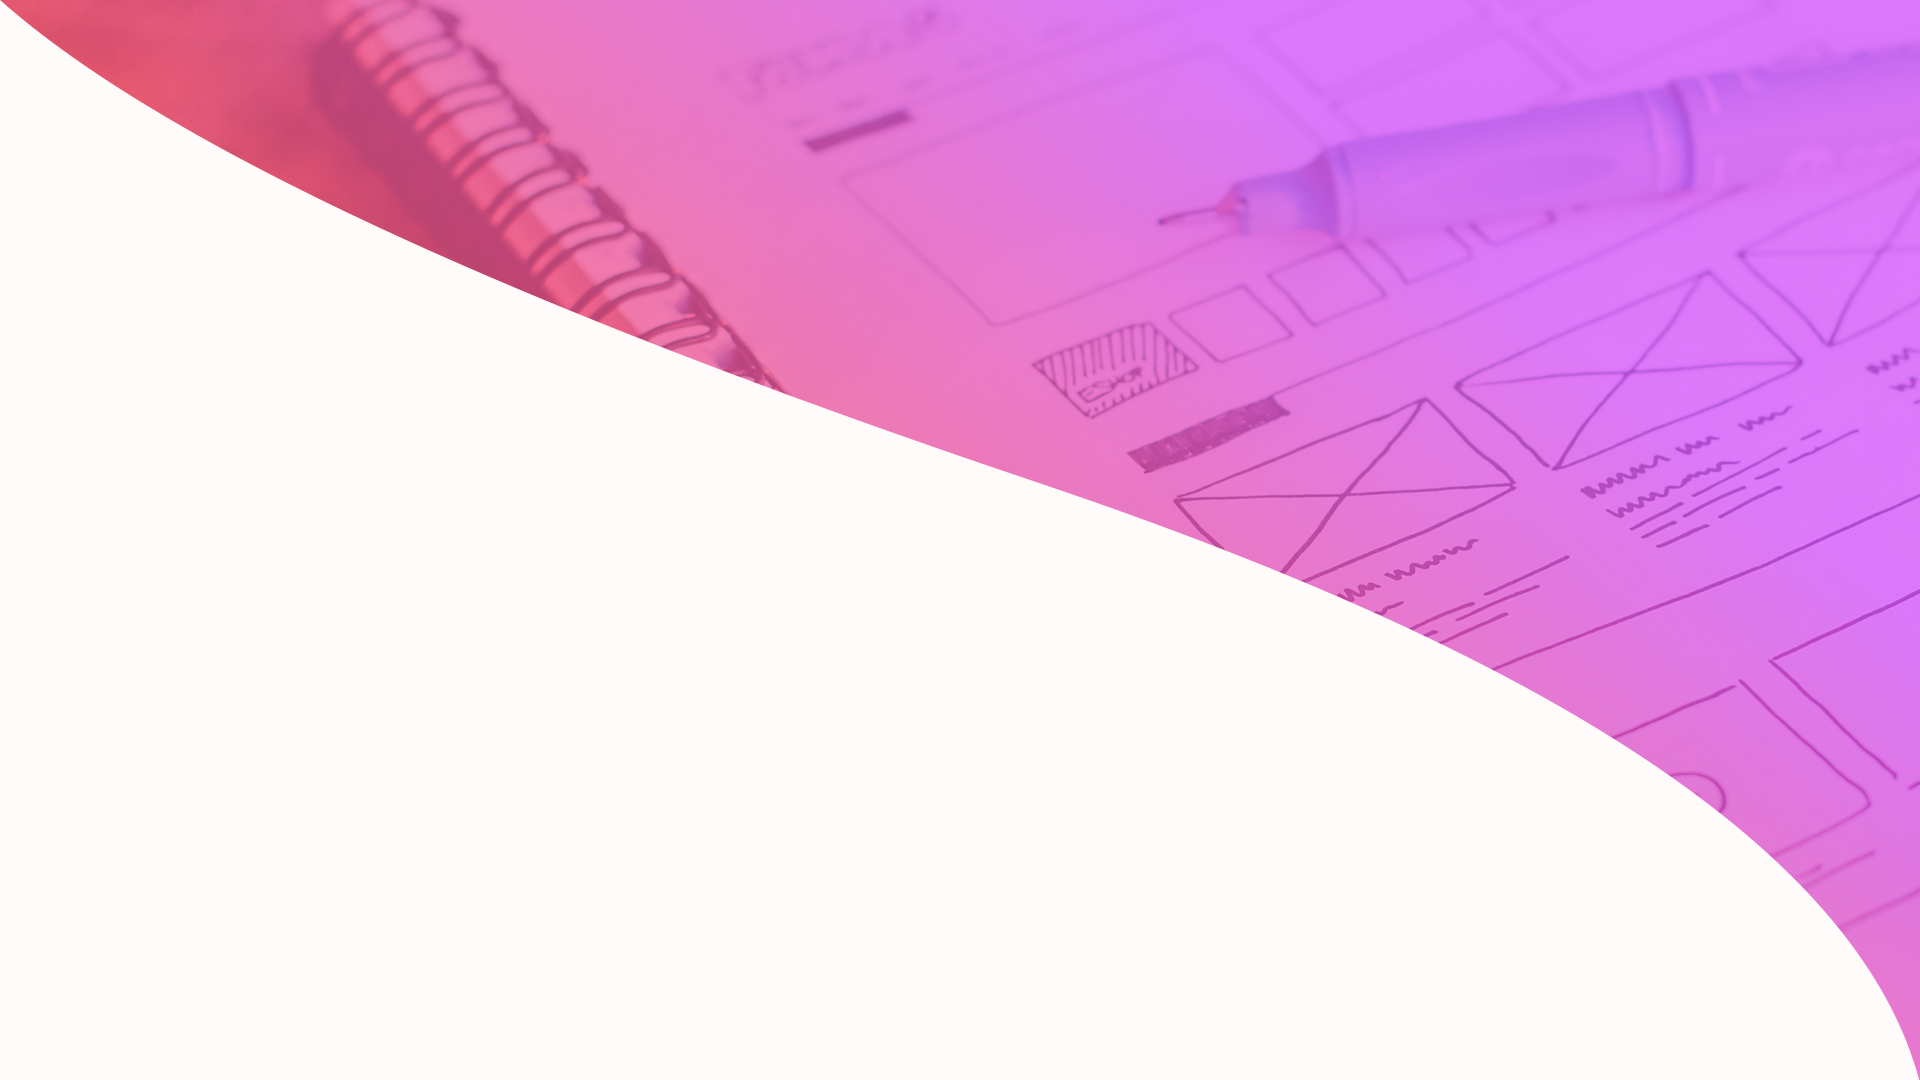
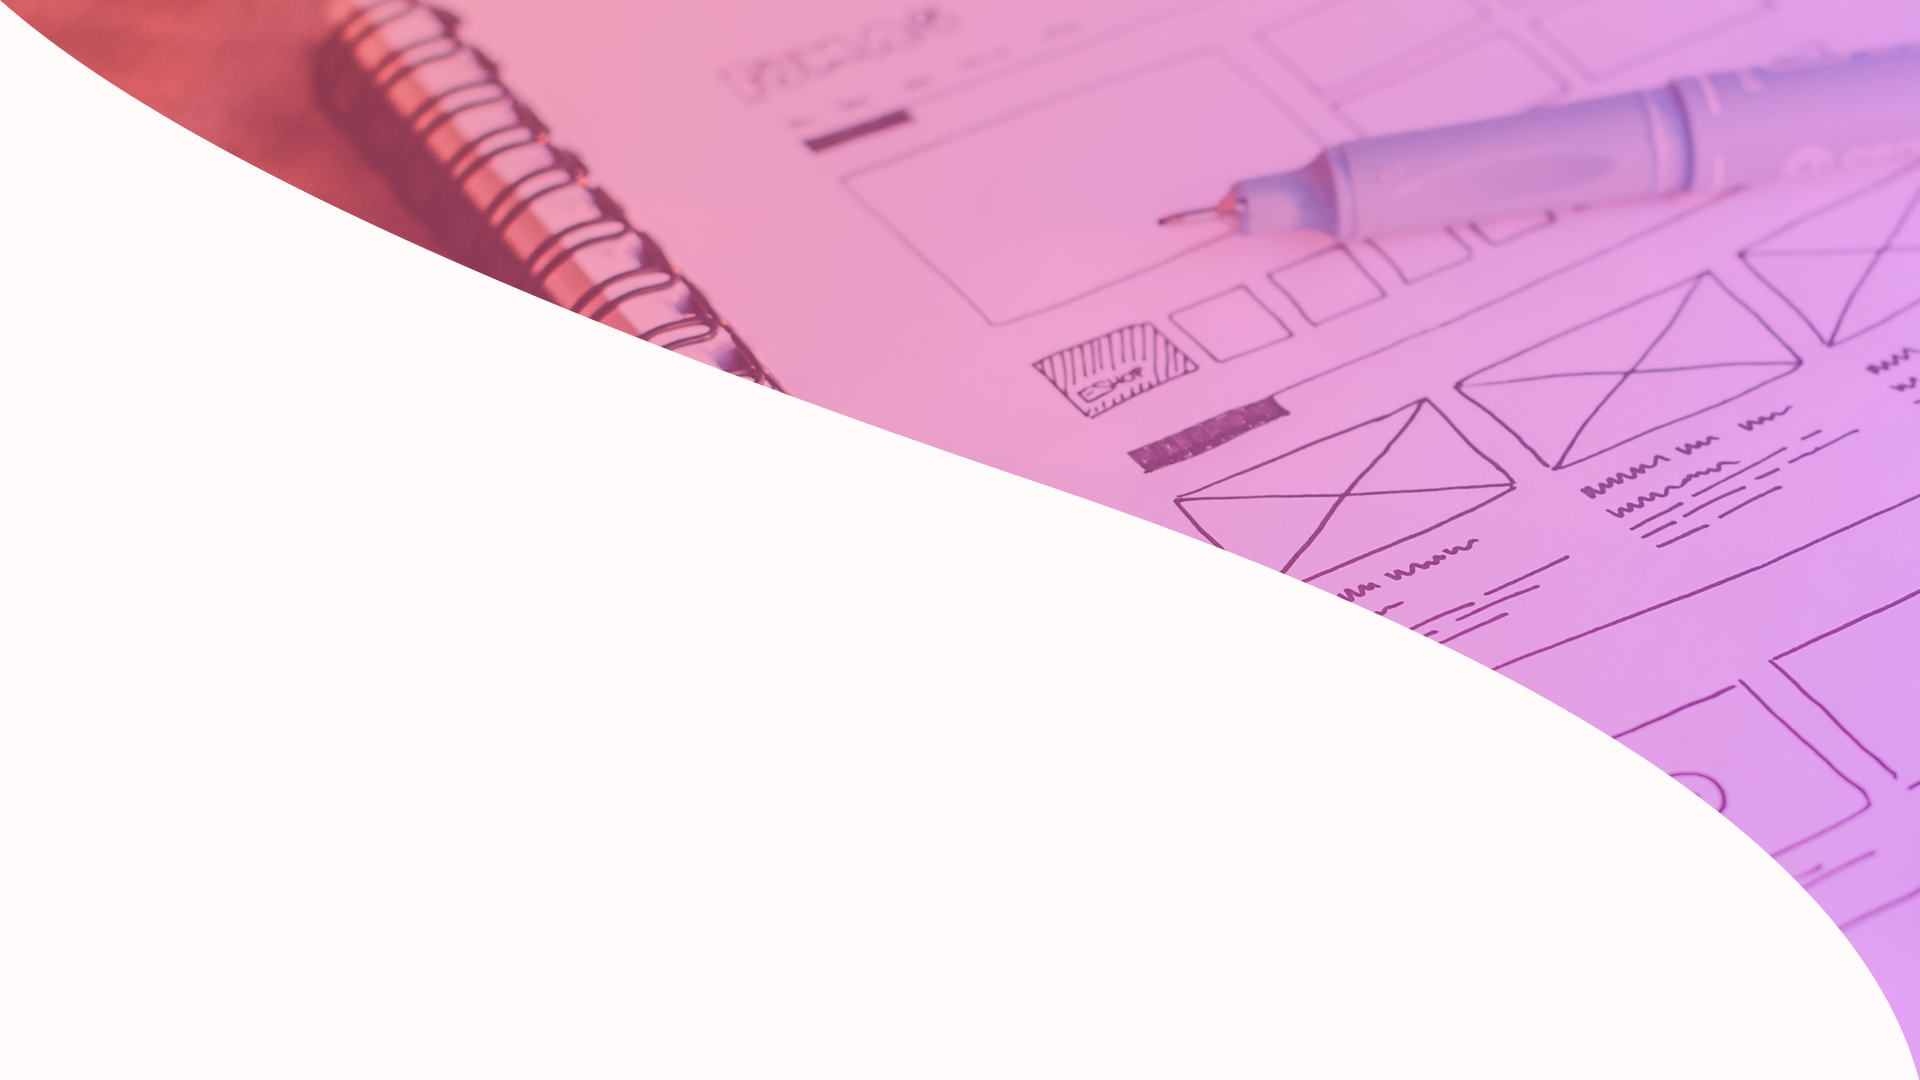
changed palette

diff --git a/index.html b/index.html
@@ -25,7 +25,7 @@
   	</ul>
   </nav>
   <div class = "content">
-  	<h1>I'm <a href="#" class = "indLink">Alex.</a></h1>
+  	<h1>I'm Alex.</h1>
     <p class = "pCopy">
       This space is reserved for the<br>
       latest and greatest in tech-babble. <br>

diff --git a/Assets/Styles/home.scss b/Assets/Styles/home.scss
@@ -1,6 +1,6 @@
 $white: #fffbfb;
 $black: #141a2e;
-$red: #ff4a4a;
+$red: #f43d5e;
 $purple: #d64aff;
 
 @font-face {
